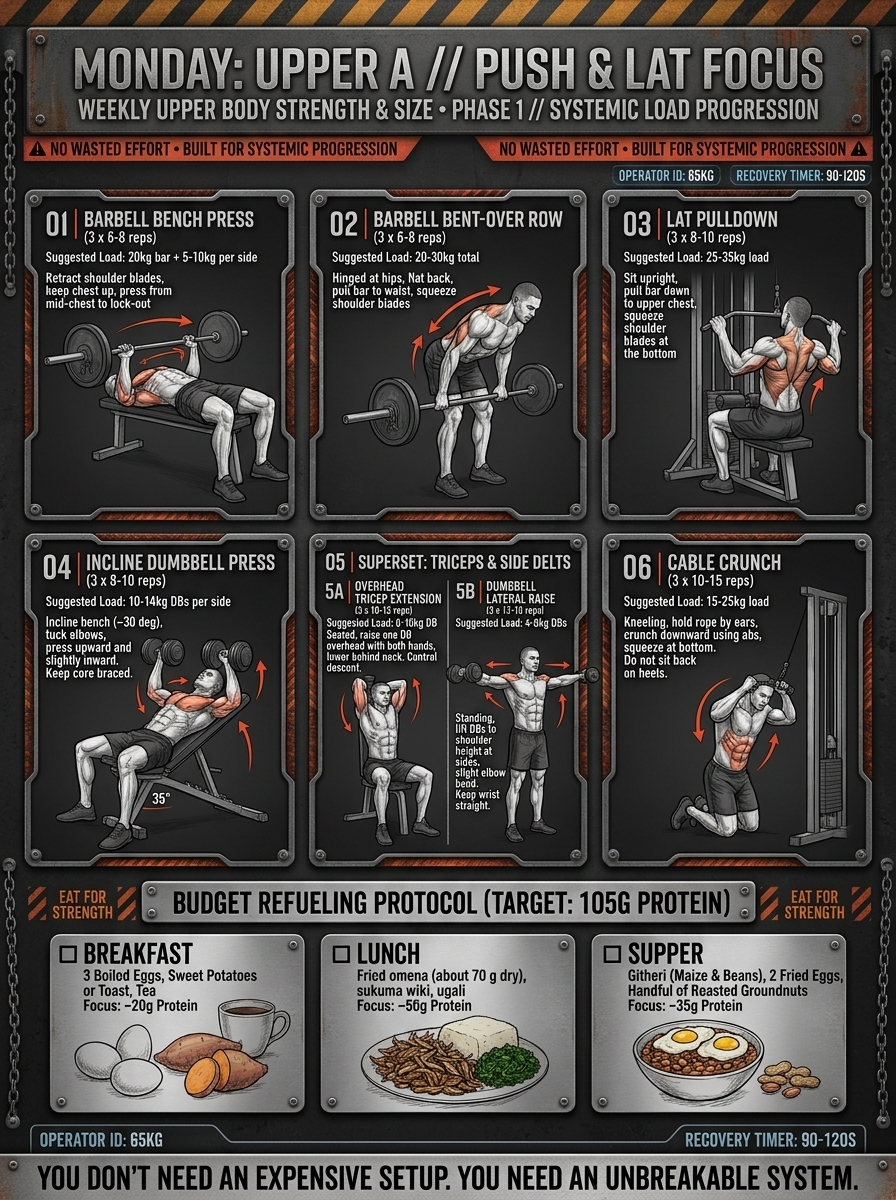
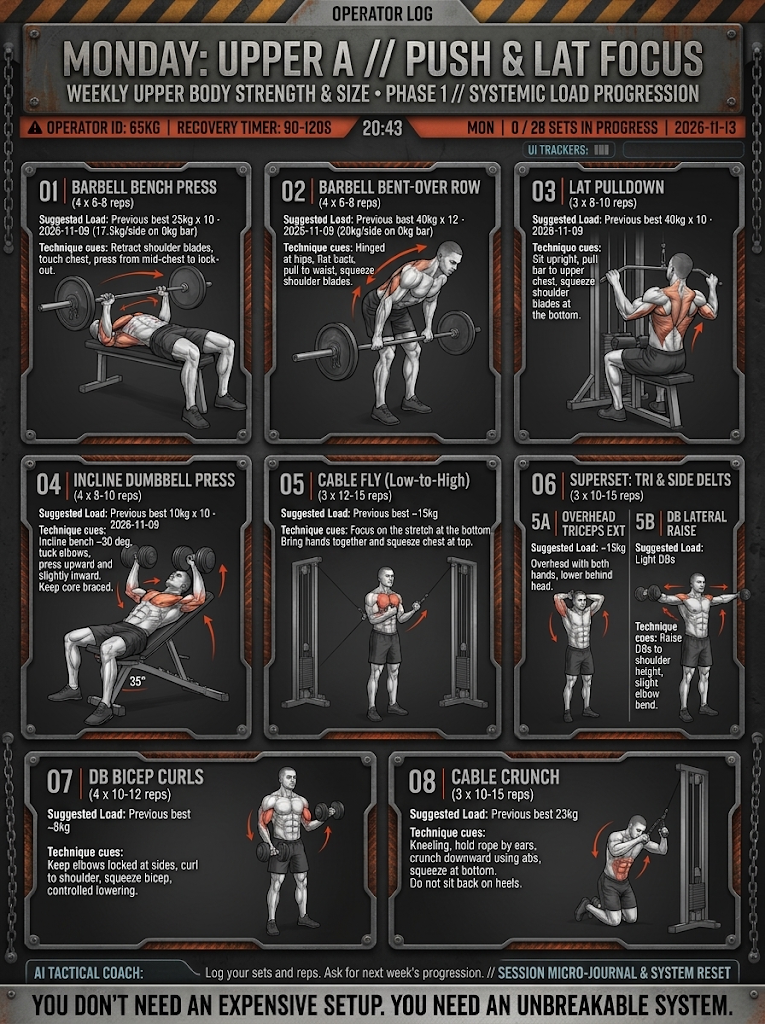
Feat: Upgraded Monday-Sunday blueprint with optimized chest, arms, and recovery structure

diff --git a/data.js b/data.js
@@ -2,78 +2,77 @@ export const TRAINING = [
   {
     key: "upperA", tag: "MON", short: "UPPER A", name: "Upper Body A", focus: "PUSH & LAT FOCUS",
     exercises: [
-      { id: "bench", name: "Barbell Bench Press", equipment: "barbell", weight: 20, sets: 4, min: 6, max: 8, inc: 2.5, rest: 150, cues: "Retract shoulder blades, touch chest, press from mid-chest to lock-out.", alternates: [{ id: "db_bench", name: "DB Bench Press", equipment: "dumbbell" }] },
-      { id: "row", name: "Barbell Bent-Over Row", equipment: "barbell", weight: 20, sets: 4, min: 6, max: 8, inc: 2.5, rest: 150, cues: "Hinged at hips, flat back, pull to waist, squeeze shoulder blades.", alternates: [{ id: "db_row", name: "DB Row", equipment: "dumbbell" }] },
-      { id: "pulldown", name: "Lat Pulldown", equipment: "machine", weight: 25, sets: 3, min: 8, max: 10, inc: 2.5, rest: 90, cues: "Sit upright, pull bar to upper chest, squeeze shoulder blades at the bottom.", alternates: [{ id: "pullup", name: "Pull-ups", equipment: "bodyweight" }] },
-      { id: "incdb", name: "Incline Dumbbell Press", equipment: "dumbbell", weight: 10, sets: 4, min: 8, max: 10, inc: 2, rest: 120, cues: "Incline bench ~30 deg, tuck elbows, press upward and slightly inward. Keep core braced." },
-      { id: "cablefly", name: "Cable Fly (low-to-high)", equipment: "machine", weight: 10, sets: 3, min: 12, max: 15, inc: 2.5, rest: 90, cues: "Focus on the stretch at the bottom. Bring hands together and squeeze the chest at the top." },
-      { id: "supersetA", name: "Superset: Tri & Side Delts", equipment: "dumbbell", weight: 10, sets: 3, min: 10, max: 15, inc: 1, rest: 60, cues: "5A Overhead Triceps Ext + 5B DB Lateral Raise. Control descent." },
-      { id: "curl", name: "DB Bicep Curls", equipment: "dumbbell", weight: 6, sets: 4, min: 10, max: 12, inc: 1, rest: 60, cues: "Keep elbows locked at sides, curl to shoulder, squeeze bicep, controlled lowering." },
-      { id: "cablecr", name: "Cable Crunch", equipment: "machine", weight: 15, sets: 3, min: 10, max: 15, inc: 2.5, rest: 60, cues: "Kneeling, hold rope by ears, crunch downward using abs, squeeze at bottom. Do not sit back on heels." }
+      { id: "bench", name: "Barbell Bench Press", equipment: "barbell", weight: 37.5, sets: 4, min: 6, max: 8, inc: 2.5, rest: 150, cues: "Pinch shoulder blades down and back. Lower 2 sec to lower sternum, 0.5-sec pause, explode up.", alternates: [{ id: "db_bench", name: "DB Bench Press", equipment: "dumbbell" }] },
+      { id: "row", name: "Barbell Bent-Over Row", equipment: "barbell", weight: 40, sets: 4, min: 6, max: 8, inc: 2.5, rest: 120, cues: "Hinge at hips, flat back, pull bar to lower waist, squeeze shoulder blades 1 sec.", alternates: [{ id: "db_row", name: "DB Row", equipment: "dumbbell" }] },
+      { id: "pulldown", name: "Lat Pulldown", equipment: "machine", weight: 40, sets: 3, min: 8, max: 10, inc: 2.5, rest: 90, cues: "Sit tall, pull bar to upper chest, drive elbows down toward hips.", alternates: [{ id: "pullup", name: "Pull-ups", equipment: "bodyweight" }] },
+      { id: "incdb", name: "Incline DB Press (30°)", equipment: "dumbbell", weight: 12, sets: 4, min: 8, max: 10, inc: 2, rest: 120, cues: "Low incline (~30°). Tuck elbows at 45°, squeeze inner elbows together at the top." },
+      { id: "cablefly", name: "Cable Fly (Low-to-High)", equipment: "machine", weight: 10, sets: 3, min: 12, max: 15, inc: 2.5, rest: 90, cues: "Slight bend in elbows; scoop hands upward and squeeze upper/inner chest hard." },
+      { id: "supersetA", name: "Superset: Tri & Side Delts", equipment: "dumbbell", weight: 15, sets: 3, min: 10, max: 15, inc: 1, rest: 90, cues: "5A Overhead Tri Ext (15kg): Flare rope overhead. 5B DB Lat Raise (5kg): Lead with elbows." },
+      { id: "curl", name: "DB Bicep Curls", equipment: "dumbbell", weight: 8, sets: 4, min: 10, max: 12, inc: 1, rest: 90, cues: "Lock elbows at ribs; full stretch at bottom, 2-sec controlled lowering." },
+      { id: "cablecr", name: "Cable Crunch", equipment: "machine", weight: 15, sets: 3, min: 10, max: 15, inc: 2.5, rest: 60, cues: "Hold rope by ears, round spine downward to crunch ribs to pelvis." }
     ]
   },
   {
     key: "lowerA", tag: "TUE", short: "LOWER A", name: "Lower Body A", focus: "QUADS & STABILITY",
     exercises: [
-      { id: "squat", name: "Barbell Squat", equipment: "barbell", weight: 30, sets: 4, min: 6, max: 8, inc: 5, rest: 180, cues: "Use a rack with safety pins. Keep chest up, brace core, squat deep until thighs are parallel.", alternates: [{ id: "goblet_squat", name: "Goblet Squat", equipment: "dumbbell" }] },
-      { id: "legpress", name: "Leg Press", equipment: "machine", weight: 40, sets: 4, min: 8, max: 10, inc: 10, rest: 120, cues: "Place feet shoulder-width on platform, lower slowly, push through heels without locking knees.", alternates: [{ id: "bss", name: "Bulgarian Split Squat", equipment: "dumbbell" }] },
-      { id: "legcurlA", name: "Lying Leg Curl", equipment: "machine", weight: 15, sets: 3, min: 10, max: 12, inc: 2.5, rest: 90, cues: "Lie flat on pad, grasp handles, curl pad toward glutes, squeeze hamstrings." },
-      { id: "lunge", name: "Walking DB Lunges", equipment: "dumbbell", weight: 8, sets: 3, min: 10, max: 12, inc: 2, rest: 90, cues: "Per leg. Keep torso upright, take a long stride, lower back knee just above floor, alternate." },
-      { id: "calfA", name: "Standing Calf Raise", equipment: "machine", weight: 20, sets: 4, min: 12, max: 15, inc: 5, rest: 60, cues: "Balls of feet on block, lower heels for full stretch, raise up high on toes, pause." },
-      { id: "hlr", name: "Hanging Knee Raise", equipment: "bodyweight", weight: 0, sets: 3, min: 10, max: 15, inc: 0, rest: 60, cues: "Hang from bar, keep upper body still, raise knees to chest, control descent." },
-      { id: "plank", name: "Core Stability Block", equipment: "bodyweight", weight: 0, sets: 3, min: 30, max: 60, inc: 0, rest: 60, cues: "Plank 30-60s / Side Plank 20-30s. Squeeze glutes, don't sag, keep hips high. Focus on rigid torso hold." }
+      { id: "squat", name: "Barbell Squat", equipment: "barbell", weight: 40, sets: 4, min: 6, max: 8, inc: 5, rest: 150, cues: "Brace core tight, squat to parallel or deeper, drive up through mid-foot.", alternates: [{ id: "goblet_squat", name: "Goblet Squat", equipment: "dumbbell" }] },
+      { id: "legpress", name: "Leg Press", equipment: "machine", weight: 70, sets: 4, min: 8, max: 10, inc: 10, rest: 120, cues: "Feet shoulder-width mid-platform; lower deep, press without locking knees at top.", alternates: [{ id: "bss", name: "Bulgarian Split Squat", equipment: "dumbbell" }] },
+      { id: "legcurlA", name: "Lying Leg Curl", equipment: "machine", weight: 30, sets: 3, min: 10, max: 12, inc: 2.5, rest: 90, cues: "Keep hips pressed into pad, squeeze hamstrings at peak, lower slowly." },
+      { id: "lunge", name: "Walking DB Lunges", equipment: "dumbbell", weight: 8, sets: 3, min: 10, max: 12, inc: 2, rest: 90, cues: "Per leg. Torso upright, long stride, tap back knee lightly to floor." },
+      { id: "calfA", name: "Standing Calf Raise", equipment: "machine", weight: 40, sets: 4, min: 12, max: 15, inc: 5, rest: 60, cues: "2-second dead pause at bottom stretch on every rep; push high onto big toes." },
+      { id: "hlr", name: "Hanging Knee Raise", equipment: "bodyweight", weight: 0, sets: 3, min: 10, max: 15, inc: 0, rest: 60, cues: "Curl pelvis upward toward chest; no swinging momentum." },
+      { id: "plank", name: "Core Stability Block", equipment: "bodyweight", weight: 0, sets: 3, min: 30, max: 60, inc: 0, rest: 45, cues: "Front plank 45-60s + side planks 20-30s; squeeze glutes and brace abs rigid." }
     ]
   },
   {
     key: "recoveryA", tag: "WED", short: "RECOV", name: "Active Recovery", focus: "MOBILITY & RECON", recovery: true,
     exercises: [
-      { id: "walkA", name: "Light Walk", equipment: "bodyweight", weight: 0, sets: 1, min: 30, max: 45, inc: 0, rest: 0, cues: "30-45 MIN. Brisk pace, outdoor track or treadmill, focus on circulation and system flushing." },
-      { id: "mobility", name: "Dynamic Mobility", equipment: "bodyweight", weight: 0, sets: 1, min: 15, max: 20, inc: 0, rest: 0, cues: "15-20 MIN. Perform dynamic lunge stretches with torso rotation. Focus on opening hips and reach up." },
-      { id: "foam", name: "Foam Rolling", equipment: "bodyweight", weight: 0, sets: 1, min: 10, max: 15, inc: 0, rest: 0, cues: "10-15 MIN. Roll quads, hamstrings, and calves on a foam roller. Focus on trigger points." },
-      { id: "hydration", name: "Hydration", equipment: "bodyweight", weight: 0, sets: 1, min: 3, max: 4, inc: 0, rest: 0, cues: "Consume 3-4 liters of water, rehydrate the system." },
-      { id: "stretchA", name: "Stretching & Breathing", equipment: "bodyweight", weight: 0, sets: 1, min: 10, max: 15, inc: 0, rest: 0, cues: "10-15 MIN. Static holds like a seated hamstring stretch, focus on deep diaphragmatic breathing to down-regulate." }
+      { id: "walkA", name: "Light Walk", equipment: "bodyweight", weight: 0, sets: 1, min: 30, max: 45, inc: 0, rest: 0, cues: "30-45 MIN. Brisk conversational pace outdoors or treadmill." },
+      { id: "mobility", name: "Mobility & Foam Rolling", equipment: "bodyweight", weight: 0, sets: 1, min: 15, max: 20, inc: 0, rest: 0, cues: "15-20 MIN. Dynamic hip/thoracic openers + rolling quads, hamstrings, calves." },
+      { id: "nutrition", name: "Nutrition & Hydration", equipment: "bodyweight", weight: 0, sets: 1, min: 3, max: 4, inc: 0, rest: 0, cues: "Hit 3-4 liters of water and 120-130g protein to fuel Thursday's session." }
     ]
   },
   {
     key: "upperB", tag: "THU", short: "UPPER B", name: "Upper Body B", focus: "VERTICAL & ARMS",
     exercises: [
-      { id: "ohp", name: "Barbell Overhead Press", equipment: "barbell", weight: 20, sets: 4, min: 6, max: 8, inc: 2.5, rest: 150, cues: "Brace core, press straight up, push head through at lockout.", alternates: [{ id: "db_ohp", name: "DB Overhead Press", equipment: "dumbbell" }] },
-      { id: "pulldownB", name: "Lat Pulldown", equipment: "machine", weight: 25, sets: 3, min: 8, max: 10, inc: 2.5, rest: 90, cues: "Sit upright, pull bar to upper chest, squeeze shoulder blades at the bottom." },
-      { id: "rowB", name: "Barbell / Chest-Supported Row", equipment: "barbell", weight: 20, sets: 3, min: 8, max: 10, inc: 2.5, rest: 90, cues: "Chest on pad or hinge at hips. Elbows to hips, squeeze 1 sec." },
-      { id: "dips", name: "Dips (Chest/Triceps)", equipment: "bodyweight", weight: 0, sets: 4, min: 8, max: 10, inc: 2.5, rest: 90, cues: "Lean forward for chest, upright for triceps, lower until upper arms are parallel." },
-      { id: "facepull", name: "Face Pulls (Cables)", equipment: "machine", weight: 8, sets: 3, min: 12, max: 15, inc: 2.5, rest: 60, cues: "Use rope attachment, pull towards face, externally rotate shoulders, squeeze rear delts." },
-      { id: "latraise", name: "DB Lateral Raise", equipment: "dumbbell", weight: 4, sets: 5, min: 12, max: 15, inc: 1, rest: 60, cues: "Raise DBs to shoulder height, slight elbow bend, lead with elbows." },
-      { id: "curlB", name: "DB Bicep Curls", equipment: "dumbbell", weight: 6, sets: 3, min: 10, max: 12, inc: 1, rest: 60, cues: "Keep elbows locked at sides, curl to shoulder, squeeze bicep, controlled lowering." },
-      { id: "hammer", name: "Hammer Curls", equipment: "dumbbell", weight: 8, sets: 3, min: 10, max: 12, inc: 1, rest: 60, cues: "Neutral grip. Focus on the brachialis. Keep elbows locked at sides." }
+      { id: "ohp", name: "Barbell Overhead Press", equipment: "barbell", weight: 25, sets: 4, min: 6, max: 8, inc: 2.5, rest: 150, cues: "Squeeze glutes and abs tight, press straight vertical, push head through at lockout.", alternates: [{ id: "db_ohp", name: "DB Overhead Press", equipment: "dumbbell" }] },
+      { id: "pulldownB", name: "Lat Pulldown", equipment: "machine", weight: 40, sets: 3, min: 8, max: 10, inc: 2.5, rest: 90, cues: "Pull bar smoothly to upper chest, pause 1 sec at bottom contraction." },
+      { id: "rowB", name: "Barbell / Chest-Supported Row", equipment: "barbell", weight: 25, sets: 3, min: 8, max: 10, inc: 2.5, rest: 90, cues: "Pull elbows back toward hips, pause 1 sec at squeeze." },
+      { id: "incdb", name: "Incline DB Press (30°) (Replaces Dips)", equipment: "dumbbell", weight: 10, sets: 3, min: 8, max: 10, inc: 2, rest: 120, cues: "Secondary weekly chest builder. Pin shoulder blades into bench, deep stretch at bottom." },
+      { id: "pushdown", name: "Cable Rope Triceps Pushdown", equipment: "machine", weight: 15, sets: 3, min: 10, max: 12, inc: 2.5, rest: 90, cues: "Pin elbows tightly to sides; spread rope apart at lockout for lateral tricep width." },
+      { id: "latraise", name: "DB Lateral Raise", equipment: "dumbbell", weight: 5, sets: 3, min: 12, max: 15, inc: 1, rest: 60, cues: "Strict control; raise to shoulder height leading with elbows." },
+      { id: "curlB", name: "DB Bicep Curls (or Incline DB Curl)", equipment: "dumbbell", weight: 6, sets: 3, min: 10, max: 12, inc: 1, rest: 90, cues: "Zero torso swing; strict 2-second lowering phase." },
+      { id: "hammer", name: "Hammer Curls", equipment: "dumbbell", weight: 8, sets: 3, min: 10, max: 12, inc: 1, rest: 90, cues: "Neutral grip (thumbs up) to thicken the brachialis and push biceps higher." },
+      { id: "facepull", name: "Face Pulls (Cables)", equipment: "machine", weight: 10, sets: 3, min: 15, max: 20, inc: 2.5, rest: 60, cues: "Pull rope to eye level, externally rotate hands backward to hit rear delts." }
     ]
   },
   {
     key: "lowerB", tag: "FRI", short: "LOWER B", name: "Lower Body B", focus: "HINGE & POSTERIOR CHAIN",
     exercises: [
-      { id: "rdl", name: "Romanian Deadlift", equipment: "barbell", weight: 30, sets: 4, min: 6, max: 8, inc: 5, rest: 150, cues: "Hinge at hips, keep back straight, slight knee bend, feel hamstring stretch.", alternates: [{ id: "db_rdl", name: "DB Romanian Deadlift", equipment: "dumbbell" }] },
-      { id: "bss", name: "Bulgarian Split Squat", equipment: "dumbbell", weight: 8, sets: 3, min: 8, max: 10, inc: 2, rest: 90, cues: "Rear foot elevated on bench, lower hips straight down, front knee over ankle." },
-      { id: "legext", name: "Leg Extensions", equipment: "machine", weight: 25, sets: 3, min: 12, max: 15, inc: 2.5, rest: 60, cues: "Control movement, fully extend legs, squeeze quads at top, lower slowly." },
-      { id: "legcurlB", name: "Seated Leg Curls", equipment: "machine", weight: 20, sets: 4, min: 10, max: 12, inc: 2.5, rest: 60, cues: "Adjust pad, secure lap, curl legs back, squeeze hamstrings, control weight." },
-      { id: "calfB", name: "Seated Calf Raises", equipment: "machine", weight: 20, sets: 4, min: 12, max: 15, inc: 5, rest: 60, cues: "Balls of feet on platform, lower heels for full stretch, raise high on toes." },
-      { id: "hlr", name: "Hanging Knee Raise", equipment: "bodyweight", weight: 0, sets: 3, min: 10, max: 15, inc: 0, rest: 60, cues: "Hang from bar, keep upper body still, raise knees to chest, control descent." },
-      { id: "cablecr", name: "Cable Crunch", equipment: "machine", weight: 15, sets: 3, min: 12, max: 15, inc: 2.5, rest: 60, cues: "Kneeling, hold rope by ears, crunch downward using abs, squeeze at bottom." },
-      { id: "reardelt", name: "Rear Delt Fly (cable/DB)", equipment: "dumbbell", weight: 4, sets: 3, min: 15, max: 20, inc: 1, rest: 60, cues: "Hinge at hips or use cable. Focus on pulling with the rear delts, not the traps." }
+      { id: "rdl", name: "Romanian Deadlift (RDL)", equipment: "barbell", weight: 60, sets: 4, min: 6, max: 8, inc: 5, rest: 150, cues: "Push hips back into wall behind you, slight knee bend, keep bar gliding along shins.", alternates: [{ id: "db_rdl", name: "DB Romanian Deadlift", equipment: "dumbbell" }] },
+      { id: "bss", name: "Bulgarian Split Squat", equipment: "dumbbell", weight: 12, sets: 3, min: 8, max: 10, inc: 2, rest: 90, cues: "Lean torso forward 15° to load the front glute; lower straight down under control." },
+      { id: "legext", name: "Leg Extensions", equipment: "machine", weight: 45, sets: 3, min: 12, max: 15, inc: 2.5, rest: 90, cues: "Full knee extension, 1-sec hard quad squeeze at top, 3-sec slow lowering." },
+      { id: "legcurlB", name: "Seated Leg Curls", equipment: "machine", weight: 20, sets: 4, min: 10, max: 12, inc: 2.5, rest: 90, cues: "Lock lap pad tight, curl heels back smoothly, control the return." },
+      { id: "calfB", name: "Seated Calf Raises", equipment: "machine", weight: 50, sets: 4, min: 12, max: 15, inc: 5, rest: 60, cues: "Full ankle stretch at bottom (2-sec pause), push high onto balls of feet." },
+      { id: "hlr", name: "Hanging Knee Raise", equipment: "bodyweight", weight: 0, sets: 3, min: 10, max: 15, inc: 0, rest: 60, cues: "You hit 15 reps across all sets—slow the tempo (3 sec down) or hold a light DB between feet." },
+      { id: "cablecr", name: "Cable Crunch", equipment: "machine", weight: 15, sets: 3, min: 12, max: 15, inc: 2.5, rest: 60, cues: "Curl sternum down toward hips; do not sit back onto your heels." }
+      // Note: Rear Delt Fly removed from Friday as per blueprint
     ]
   },
   {
     key: "recoveryB", tag: "SAT", short: "REST", name: "Recovery & Prep", focus: "SYSTEM RESET", recovery: true,
     exercises: [
-      { id: "walkB", name: "Recovery Walk", equipment: "bodyweight", weight: 0, sets: 1, min: 30, max: 45, inc: 0, rest: 0, cues: "Brisk, conversational pace, outdoor track or neighborhood, focus on circulation." },
-      { id: "stretchB", name: "Light Stretching", equipment: "bodyweight", weight: 0, sets: 1, min: 10, max: 15, inc: 0, rest: 0, cues: "Focus on major muscle groups, hold stretches for 30s, breathe deeply." },
-      { id: "mealprep", name: "Meal Prep", equipment: "bodyweight", weight: 0, sets: 1, min: 1, max: 1, inc: 0, rest: 0, cues: "Cook proteins, prep vegetables, portion meals for the week. Stay organized." }
+      { id: "walkB", name: "Recovery Walk", equipment: "bodyweight", weight: 0, sets: 1, min: 30, max: 45, inc: 0, rest: 0, cues: "30-45 minute brisk recovery walk." },
+      { id: "stretchB", name: "Light Stretching", equipment: "bodyweight", weight: 0, sets: 1, min: 10, max: 15, inc: 0, rest: 0, cues: "10-15 minutes light full-body stretching." },
+      { id: "sleep", name: "Sleep & Refuel", equipment: "bodyweight", weight: 0, sets: 1, min: 1, max: 1, inc: 0, rest: 0, cues: "7.5–9 hours of sleep per night. Prep your beans, omena, and complex carbs." }
     ]
   },
   {
     key: "recoveryC", tag: "SUN", short: "REST", name: "Recovery & Prep", focus: "SYSTEM RESET", recovery: true,
     exercises: [
-      { id: "walkC", name: "Recovery Walk", equipment: "bodyweight", weight: 0, sets: 1, min: 30, max: 45, inc: 0, rest: 0, cues: "Brisk, conversational pace, outdoor track or neighborhood, focus on circulation." },
-      { id: "stretchC", name: "Light Stretching", equipment: "bodyweight", weight: 0, sets: 1, min: 10, max: 15, inc: 0, rest: 0, cues: "Focus on major muscle groups, hold stretches for 30s, breathe deeply." },
-      { id: "mealprepC", name: "Meal Prep", equipment: "bodyweight", weight: 0, sets: 1, min: 1, max: 1, inc: 0, rest: 0, cues: "Cook proteins, prep vegetables, portion meals for the week. Stay organized." }
+      { id: "walkC", name: "Recovery Walk", equipment: "bodyweight", weight: 0, sets: 1, min: 30, max: 45, inc: 0, rest: 0, cues: "30-45 minute brisk recovery walk." },
+      { id: "stretchC", name: "Light Stretching", equipment: "bodyweight", weight: 0, sets: 1, min: 10, max: 15, inc: 0, rest: 0, cues: "10-15 minutes light full-body stretching." },
+      { id: "sleepC", name: "Sleep & Refuel", equipment: "bodyweight", weight: 0, sets: 1, min: 1, max: 1, inc: 0, rest: 0, cues: "7.5–9 hours of sleep per night. Prep your meals for Monday." }
     ]
   }
 ];

diff --git a/sw.js b/sw.js
@@ -1,6 +1,6 @@
 /* OPERATOR LOG // TACTICAL SUITE PRO — Service Worker */
 // IMPORTANT: Bump this version number every time you push a major update
-const VERSION = "v5.9.2"; // Bump this!
+const VERSION = "v5.9.3"; // Bump this!
 const CACHE = "operator-log-" + VERSION;
 
 const CORE_ASSETS = [
